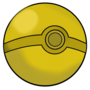
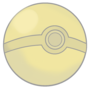
Adding some remarks, translating some non-conforming Portuguese stuff, making the Poké Ball translucent. We've gotta discuss those board-drawing functions in Graphics.py.

diff --git a/src/Graphics.py b/src/Graphics.py
@@ -38,6 +38,13 @@ class Graphics:
         pygame.display.update()
         self.clock.tick(self.fps)
 
+"""-----------------------------------------------------------------------------+
+|  Victor: I don't think these routines are supposed to be here...              |
+|  they're all related to the GameBoard class and should be called from there,  |
+|  with the Graphics class handling low level graphical functions.              |
+|  We'll discuss this in the next meetup so we can define where these go.       |
++-----------------------------------------------------------------------------"""
+
     def drawBoardSquares(self, board):
         """
             Takes a board object and draws all of its squares to the display
@@ -66,7 +73,7 @@ class Graphics:
             if (selectedPiece.x < 7 and selectedPiece.y > 0) and board.matrix[selectedPiece.x+1][selectedPiece.y-1].occupant is None:
                 self.screen.blit(goldPiece, ((selectedPiece.x+1) * 90, (selectedPiece.y-1) * 90))
 
-            #CASO EXISTA UMA PEÇA EM VERMELHO PARA ATACAR
+            # If there's an enemy piece to attack:
             if (selectedPiece.x-1 > 0 and selectedPiece.y-1 > 0) and board.matrix[selectedPiece.x-1][selectedPiece.y-1].occupant is not None and board.matrix[selectedPiece.x-1][selectedPiece.y-1].occupant.color == board.matrix[selectedPiece.x-1][selectedPiece.y-1].occupant.getEnemyColor():
                 self.screen.blit(goldPiece, ((selectedPiece.x-2) * 90, (selectedPiece.y-2) * 90))
             if (selectedPiece.x-1 > 7 and selectedPiece.y-1 > 0) and board.matrix[selectedPiece.x+1][selectedPiece.y-1].occupant is not None and board.matrix[selectedPiece.x-1][selectedPiece.y-1].occupant.color == board.matrix[selectedPiece.x-1][selectedPiece.y-1].occupant.getEnemyColor():

diff --git a/src/GameLoop.py b/src/GameLoop.py
@@ -4,7 +4,8 @@ from src.Board import Board
 from src.Constants import *
 from pygame.locals import *
 
-pygame.font.init()
+pygame.font.init()  # Victor: Just to make it clear, we won't use system fonts in the final version.
+                    # TODO: Create a class to handle blitting text on the screen!
 
 
 class GameLoop:
@@ -26,7 +27,7 @@ class GameLoop:
     def eventLoop(self):
         self.mousePos = self.graphics.boardCoords(pygame.mouse.get_pos())  # what square is the mouse in?
         for event in pygame.event.get():
-            # ESC encerra o jogo (temporário)
+            # ESC quits the game (just for now)... (by the way, closing the window works too because of pygame.QUIT)
             if (event.type == pygame.QUIT) or (event.type == pygame.KEYDOWN and event.key == pygame.K_ESCAPE):
                 self.terminateGame()
 
